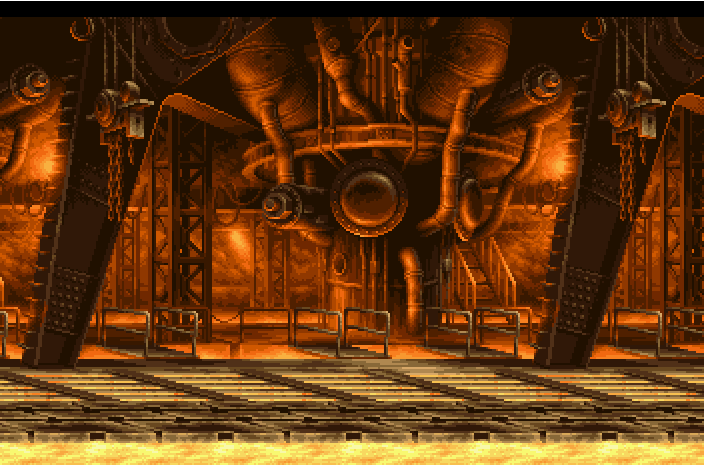
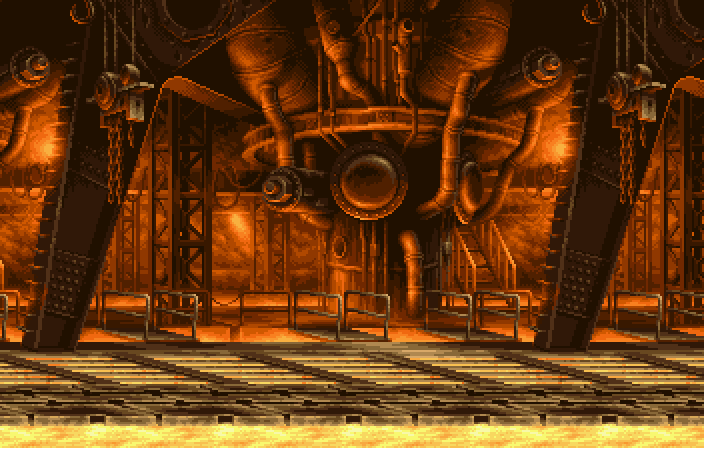
Habillage de la page register.html

diff --git a/client/register.html b/client/register.html
@@ -6,24 +6,29 @@
         <title>Enregistrement</title>
         <script src="dist/register.js"></script>
         <link rel="stylesheet" href="css/global.css">
+        <link rel="stylesheet" href="css/register.css">
         <link rel="icon" href="img/favicon.png" type="image/png" />
     </head>
     <body>
-        
-        <form action="" method="post" autocomplete="off">
-            <div id="api-message"></div>
-            
-            <input type="text" name="no" placeholder="Matricule" required>            
-            <input type="text" name="firstName" placeholder="Prénom" required>            
-            <input type="text" name="lastName" placeholder="Nom de famille" required>            
-            <input type="text" name="username" placeholder="Nom d'usager" required>            
-            <input type="password" name="password" placeholder="Mot de passe" required>            
-            <input type="text" name="welcomeText" placeholder="Texte de bienvenue" required>
-        
-            <button>
-                S'enregistrer
-            </button>
-        </form>
-
+        <div class="background-container">
+            <section>
+                <form action="" method="post" autocomplete="off">
+                    <div class="container-form">
+                        <div id="api-message"></div>
+                    
+                        <input type="text" name="no" placeholder="Matricule" required>            
+                        <input type="text" name="firstName" placeholder="Prénom" required>            
+                        <input type="text" name="lastName" placeholder="Nom de famille" required>            
+                        <input type="text" name="username" placeholder="Nom d'usager" required>            
+                        <input type="password" name="password" placeholder="Mot de passe" required>            
+                        <input type="text" name="welcomeText" placeholder="Texte de bienvenue" required>
+                    
+                        <button>
+                            S'enregistrer
+                        </button>
+                    </div>
+                </form>
+            </section>
+        </div>
     </body>
 </html>

diff --git a/client/css/register.css b/client/css/register.css
@@ -1,0 +1,57 @@
+/********** BACKGROUND **********/
+.background-container {
+    position: fixed;
+    top: 0;
+    left: 0;
+    width: 100%;
+    height: 100%;
+    z-index: -10;
+    background-image: url("../img/map2.png");
+    background-size: contain;
+}  
+
+/********** SECTION FORM **********/
+form {
+    position: relative;
+    top: 300px;
+    left: 50%;
+    transform: translate(-50%, -50%);
+}
+
+.container-form{
+    position: absolute;
+    top: 50%;
+    left: 50%;
+    transform: translate(-50%, -50%);
+    display: flex;
+    flex-direction: column;
+    justify-content: space-around;
+    height: 80vh;
+    width: 80%;
+    max-width: 600px;
+    padding: 10px;
+    border: 2px solid #2a3cad;
+    background: #111845a6;
+    box-shadow: 0 20px 50px rgb(23, 32, 90);
+    border-radius: 10px;
+}
+
+.container-form input,
+.container-form button{
+    font-family: 'MetalSlug', sans-serif;
+    padding: 10px;
+    border-radius: 15px;
+}
+
+.container-form button{
+    padding: 10px;
+    border-radius: 10px;
+    color: white;
+    background-color: #F04A23;
+}
+
+.container-form button:hover{
+    color: black;
+    background-color: #FDCD01;
+    cursor: pointer;
+}

diff --git a/client/css/index.css b/client/css/index.css
@@ -1,8 +1,3 @@
-/********** GENERAL **********/
-body {
-    overflow: hidden;
-    font-family: 'MetalSlug', sans-serif;
-}
 
 /********** BACKGROUND **********/
 .background-image {
@@ -135,15 +130,8 @@ form {
 }
 
 .container-form .content button:hover {
-    padding: 5px;
-    border-radius: 10px;
     color: black;
     background-color: #FDCD01;
-}
-
-#api-message {
-    color: red;
-    overflow-wrap: break-word;
 }
 
 .redirection {

diff --git a/client/css/global.css b/client/css/global.css
@@ -11,3 +11,13 @@
     list-style: none;
     text-decoration: none;
 }
+
+body {
+    overflow: hidden;
+    font-family: 'MetalSlug', sans-serif;
+}
+
+#api-message {
+    color: red;
+    overflow-wrap: break-word;
+}
